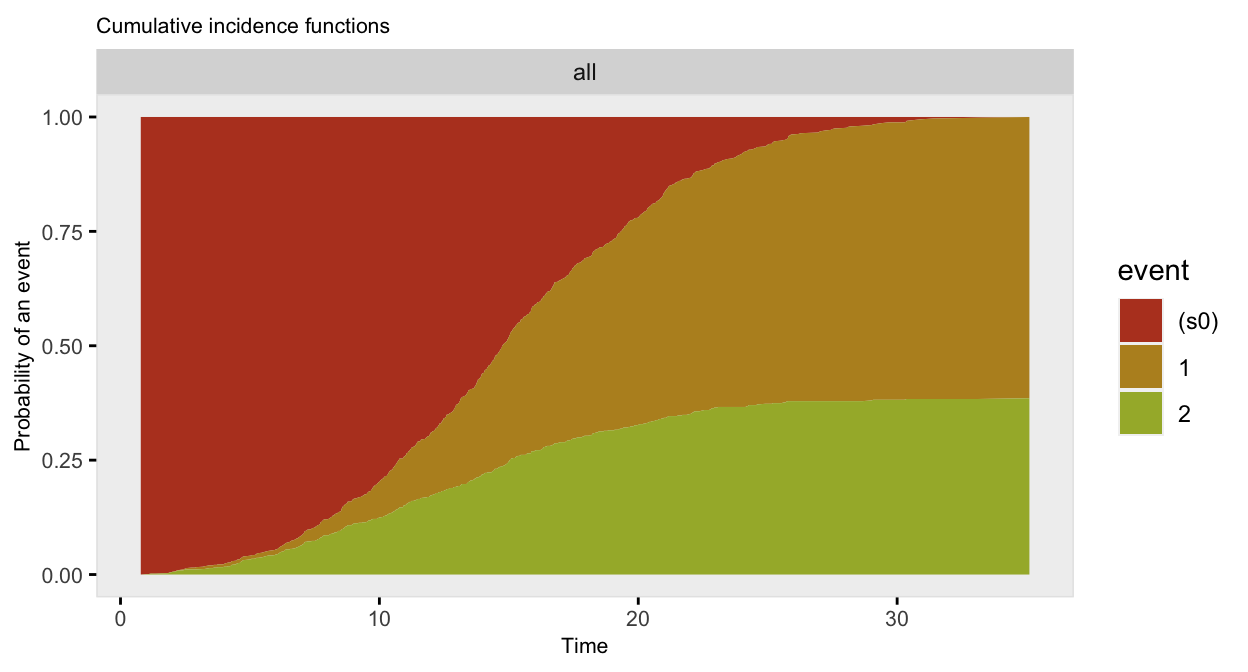
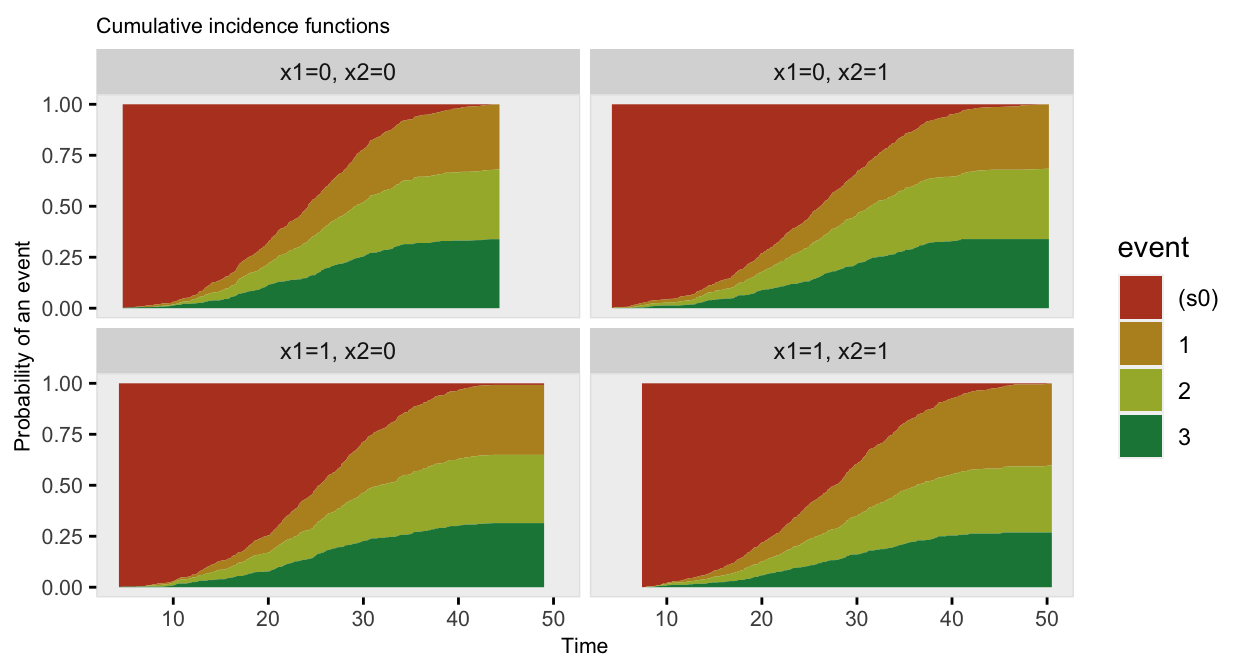
Posting competing risks

diff --git a/content/post/2022-03-15-adding-competing-risks-in-survival-data-generation/index.en.html b/content/post/2022-03-15-adding-competing-risks-in-survival-data-generation/index.en.html
@@ -1,6 +1,6 @@
 ---
 title: Adding competing risks in survival data generation
-author: Package Build
+author:
 date: '2022-03-15'
 slug: []
 categories: []
@@ -10,94 +10,98 @@ tags:
 type: ''
 subtitle: ''
 image: ''
-draft: TRUE
 ---
 
 <script src="{{< blogdown/postref >}}index.en_files/header-attrs/header-attrs.js"></script>
 
 
-<p>I am working on an update of <code>simstudy</code> that will make generating survival/time-to-event data a bit more flexible. There are two biggish enhancements. The first facilitates generation of competing events, and the second allows for the possibility of generating survival data that has time-dependent hazard ratios. This post focuses on the first enhancement, and a follow up will provide examples of the second. (If you want to try this at home, you will need the development version of <code>simstudy</code> that you can install using <strong>devtools::install_github(“kgoldfeld/simstudy”)</strong>.)</p>
+<p>I am working on an update of <code>simstudy</code> that will make generating survival/time-to-event data a bit more flexible. There are two biggish enhancements. The first facilitates generation of competing events, and the second allows for the possibility of generating survival data that has time-dependent hazard ratios. This post focuses on the first enhancement, and a follow up will provide examples of the second. (If you want to try this at home, you will need the development version of <code>simstudy</code>, which you can install using <strong>devtools::install_github(“kgoldfeld/simstudy”)</strong>.)</p>
 <div id="competing-risks" class="section level3">
 <h3>Competing risks</h3>
-<p>Concept of competing risk …</p>
-<p>In the previous example, we actually used the competing risk mechanism in <code>genSurv</code> to generate an observed time variable (which was the earliest of the censoring and event time). This is done by specifying a <em>timeName</em> argument that will represent the observed time value. The event status is indicated in the field set by the <em>eventName</em> argument (which defaults to “event”). If a variable name is indicated in the <em>censorName</em> argument, the censored events automatically have a value of 0. As we saw above, competing risk information can be generated as part of <code>genSurv</code>. However, there is an additional function <code>addCompRisk</code> that will generate the competing risk information using an existing data set. The example here will take that approach.</p>
+<p>In standard survival analysis, we are interested in understanding the distribution of time to a single event, such as time to death or time to symptom-free recovery. However, there may be situations where two there are at least two possible events, and the occurrence of one precludes the occurrence of the other. In this case, we say that the events are competing risks. In the work that motivated this <code>simstudy</code> enhancement, we are trying to model the time to opioid overdose death for people being released from jail, but there are at least two other competing risks, death from other causes and re-incarceration. In addition, there is censoring, which from a data generation point of view (though maybe not from an analytic perspective), can also be considered a competing risk.</p>
+</div>
+<div id="generating-competing-risk-outcomes-under-0.4.0" class="section level3">
+<h3>Generating competing risk outcomes under 0.4.0</h3>
+<p>Previously, it was possible to generate competing risk outcomes, but it had to be done “manually” with additional lines of code or data definitions. It was a bit cumbersome:</p>
 <pre class="r"><code>library(simstudy)
 library(data.table)
 library(survival)</code></pre>
+<p>First, we would generate a data set with <code>genSurv</code>:</p>
 <pre class="r"><code>d1 &lt;- defData(varname = &quot;x1&quot;, formula = .5, dist = &quot;binary&quot;)
 d1 &lt;- defData(d1, &quot;x2&quot;, .5, dist = &quot;binary&quot;)
 
-dS &lt;- defSurv(varname = &quot;event_1&quot;, formula = &quot;-10 - 0.6*x1 + 0.4*x2&quot;, shape = 0.3)
-dS &lt;- defSurv(dS, &quot;event_2&quot;, &quot;-6.5 + 0.3*x1 - 0.5*x2&quot;, shape = 0.5)
-dS &lt;- defSurv(dS, &quot;censor&quot;, &quot;-7&quot;, shape = 0.55)
+dS &lt;- defSurv(varname = &quot;event_1&quot;, formula = &quot;-12 - 0.1*x1 - 0.2*x2&quot;, shape = 0.3)
+dS &lt;- defSurv(dS, &quot;event_2&quot;, &quot;-12 - 0.3*x1 - 0.2*x2&quot;, shape = 0.3)
+dS &lt;- defSurv(dS, &quot;event_3&quot;, &quot;-12 - 0.4*x1 - 0.3*x2&quot;, shape = 0.3)
+dS &lt;- defSurv(dS, &quot;censor&quot;, &quot;-13&quot;, shape = 0.3)
 
-dtSurv &lt;- genData(1001, d1)
-dtSurv &lt;- genSurv(dtSurv, dS)
+set.seed(2140)
 
-dtSurv</code></pre>
-<pre><code>##         id x1 x2 censor event_1 event_2
-##    1:    1  0  0 35.993  21.199  10.472
-##    2:    2  1  1 46.647  20.018  21.070
-##    3:    3  1  1 12.740   9.320  16.787
-##    4:    4  0  0 16.480  26.811  23.481
-##    5:    5  0  0 41.238  19.556  31.368
-##   ---                                  
-##  997:  997  1  1 22.940  13.355  39.096
-##  998:  998  1  0 49.502  16.537   8.642
-##  999:  999  0  1 44.738  12.311  58.131
-## 1000: 1000  1  0 24.854   2.418  11.702
-## 1001: 1001  0  1 51.121  13.760  14.788</code></pre>
-<pre class="r"><code>cdef &lt;- defDataAdd(varname = &quot;time&quot;, 
-  formula = &quot;pmin(censor, event_1, event_2)&quot;, dist = &quot;nonrandom&quot;)
+dtCov &lt;- genData(3001, d1)
+dtSurv &lt;- genSurv(dtCov, dS)
+
+head(dtSurv)</code></pre>
+<pre><code>##    id x1 x2 censor event_1 event_2 event_3
+## 1:  1  0  1 56.809  40.321  35.050  48.356
+## 2:  2  0  0 62.278  24.865  23.121  19.198
+## 3:  3  1  0 25.650  27.898  24.716  49.633
+## 4:  4  1  1 51.486  35.065  44.731  40.086
+## 5:  5  1  0 54.522  37.042  49.701  34.751
+## 6:  6  1  0 42.749  41.419  34.136  43.811</code></pre>
+<p>And then we would add the observed time variable with a new data definition and call to <code>addColumns</code>:</p>
+<pre class="r"><code>f &lt;- &quot;(time==censor)*0 + (time==event_1)*1 + (time==event_2)*2 + (time==event_3)*3&quot;
+
+cdef &lt;- defDataAdd(varname = &quot;time&quot;, 
+  formula = &quot;pmin(censor, event_1, event_2, event_3)&quot;, dist = &quot;nonrandom&quot;)
 cdef &lt;- defDataAdd(cdef, varname = &quot;event&quot;, 
-  formula = &quot;(time==censor)*0 + (time==event_1)*1 + (time==event_2)*2&quot;, 
+  formula = f, 
   dist = &quot;nonrandom&quot;)
 
-dtSurv_old &lt;- addColumns(cdef, dtSurv)
-dtSurv_old</code></pre>
-<pre><code>##         id x1 x2 censor event_1 event_2   time event
-##    1:    1  0  0 35.993  21.199  10.472 10.472     2
-##    2:    2  1  1 46.647  20.018  21.070 20.018     1
-##    3:    3  1  1 12.740   9.320  16.787  9.320     1
-##    4:    4  0  0 16.480  26.811  23.481 16.480     0
-##    5:    5  0  0 41.238  19.556  31.368 19.556     1
-##   ---                                               
-##  997:  997  1  1 22.940  13.355  39.096 13.355     1
-##  998:  998  1  0 49.502  16.537   8.642  8.642     2
-##  999:  999  0  1 44.738  12.311  58.131 12.311     1
-## 1000: 1000  1  0 24.854   2.418  11.702  2.418     1
-## 1001: 1001  0  1 51.121  13.760  14.788 13.760     1</code></pre>
-<pre class="r"><code>dtSurv &lt;- addCompRisk(dtSurv, events = c(&quot;event_1&quot;, &quot;event_2&quot;, &quot;censor&quot;), 
-            timeName = &quot;time&quot;, censorName = &quot;censor&quot;)
-dtSurv</code></pre>
-<pre><code>##         id x1 x2   time event    type
-##    1:    1  0  0 10.472     2 event_2
-##    2:    2  1  1 20.018     1 event_1
-##    3:    3  1  1  9.320     1 event_1
-##    4:    4  0  0 16.480     0  censor
-##    5:    5  0  0 19.556     1 event_1
-##   ---                                
-##  997:  997  1  1 13.355     1 event_1
-##  998:  998  1  0  8.642     2 event_2
-##  999:  999  0  1 12.311     1 event_1
-## 1000: 1000  1  0  2.418     1 event_1
-## 1001: 1001  0  1 13.760     1 event_1</code></pre>
+dtSurv_final &lt;- addColumns(cdef, dtSurv)
+head(dtSurv_final)</code></pre>
+<pre><code>##    id x1 x2 censor event_1 event_2 event_3   time event
+## 1:  1  0  1 56.809  40.321  35.050  48.356 35.050     2
+## 2:  2  0  0 62.278  24.865  23.121  19.198 19.198     3
+## 3:  3  1  0 25.650  27.898  24.716  49.633 24.716     2
+## 4:  4  1  1 51.486  35.065  44.731  40.086 35.065     1
+## 5:  5  1  0 54.522  37.042  49.701  34.751 34.751     3
+## 6:  6  1  0 42.749  41.419  34.136  43.811 34.136     2</code></pre>
+</div>
+<div id="streamlined-approach" class="section level3">
+<h3>Streamlined approach</h3>
+<p>The function <code>addCompRisk</code> can now generate an observed time variable (which will be the first of the four event times). This is done by specifying a <em>timeName</em> argument that will represent the observed time value. The event status is indicated in the field set by the <em>eventName</em> argument (which defaults to “event”). And, if a variable name is indicated in the <em>censorName</em> argument, the censored events automatically have a value of 0.</p>
+<pre class="r"><code>dtSurv_final &lt;- addCompRisk(dtSurv, 
+  events = c(&quot;event_1&quot;, &quot;event_2&quot;, &quot;event_3&quot;, &quot;censor&quot;), 
+  timeName = &quot;time&quot;, censorName = &quot;censor&quot;)
+
+head(dtSurv_final)</code></pre>
+<pre><code>##    id x1 x2   time event    type
+## 1:  1  0  1 35.050     2 event_2
+## 2:  2  0  0 19.198     3 event_3
+## 3:  3  1  0 24.716     2 event_2
+## 4:  4  1  1 35.065     1 event_1
+## 5:  5  1  0 34.751     3 event_3
+## 6:  6  1  0 34.136     2 event_2</code></pre>
 <p>The competing risk data can be plotted using the cumulative incidence functions (rather than the survival curves):</p>
 <p><img src="{{< blogdown/postref >}}index.en_files/figure-html/unnamed-chunk-6-1.png" width="624" /></p>
-<p>The data generation can all be done in two (instead of three) steps:</p>
-<pre class="r"><code>dtSurv &lt;- genData(101, d1)
-dtSurv &lt;- genSurv(dtSurv, dS, timeName = &quot;time&quot;, censorName = &quot;censor&quot;)
-dtSurv</code></pre>
-<pre><code>##       id x1 x2   time event    type
-##   1:   1  0  0 11.024     1 event_1
-##   2:   2  0  0 15.982     1 event_1
-##   3:   3  0  1 11.823     1 event_1
-##   4:   4  0  1 11.840     1 event_1
-##   5:   5  1  1 12.056     2 event_2
-##  ---                               
-##  97:  97  1  0  3.369     2 event_2
-##  98:  98  1  0 20.504     1 event_1
-##  99:  99  0  0 11.498     1 event_1
-## 100: 100  1  0 19.378     1 event_1
-## 101: 101  0  1  8.397     0  censor</code></pre>
+<p>The data generation can be streamlined even further, as there is no need to call <code>addCompRisk</code> at all. The same arguments can be provided directly in the call to <code>genSurv</code>, so everything is done at once. And there is no need to explicitly name the events, as they are extracted from the survival distribution definitions:</p>
+<pre class="r"><code>dtSurv_final &lt;- genSurv(dtCov, dS, timeName = &quot;time&quot;, censorName = &quot;censor&quot;)
+head(dtSurv_final)</code></pre>
+<pre><code>##    id x1 x2   time event    type
+## 1:  1  0  1 30.229     3 event_3
+## 2:  2  0  0 28.473     1 event_1
+## 3:  3  1  0 11.654     0  censor
+## 4:  4  1  1 28.248     1 event_1
+## 5:  5  1  0 28.524     3 event_3
+## 6:  6  1  0 18.255     0  censor</code></pre>
+<p>If you don’t want to generate competing risk data, and you can set <em>timeName</em> to <code>NULL</code>, or just not specify it:</p>
+<pre class="r"><code>dtSurv_final &lt;- genSurv(dtCov, dS)
+head(dtSurv_final)</code></pre>
+<pre><code>##    id x1 x2 censor event_1 event_2 event_3
+## 1:  1  0  1 40.276  16.858  42.624  34.609
+## 2:  2  0  0 69.382  24.191  37.574  10.783
+## 3:  3  1  0 26.637  48.476  54.240  60.507
+## 4:  4  1  1 36.697  46.690  36.443  43.195
+## 5:  5  1  0 64.498  36.755  39.666  10.935
+## 6:  6  1  0 69.150  38.706  44.930  17.668</code></pre>
 </div>

diff --git a/content/post/2022-03-22-simulating-non-proportional-hazards/index.en.html b/content/post/2022-03-22-simulating-non-proportional-hazards/index.en.html
@@ -16,10 +16,10 @@ draft: TRUE
 <script src="{{< blogdown/postref >}}index.en_files/header-attrs/header-attrs.js"></script>
 
 
-<p>I am working on an update of <code>simstudy</code> that will make generating survival/time-to-event data a bit more flexible. There are two biggish enhancements. The first allows for the possibility of generating survival data that has time-dependent hazard ratios, and the second facilitates generation of competing events. This post focuses on the first enhancement, and a follow up will provide examples of the second. (If you want to try this at home, you will need the development version of <code>simstudy</code> that you can install using <strong>devtools::install_github(“kgoldfeld/simstudy”)</strong>.)</p>
+<p>As I mentioned last <a href="">time</a>, I am working on an update of <code>simstudy</code> that will make generating survival/time-to-event data a bit more flexible. I previously talked about the functionality related to <a href="">competing risks</a>, and this time I’ll describe generating survival data that has time-dependent hazard ratios. (As I mentioned last time, if you want to try this at home, you will need the development version of <code>simstudy</code> that you can install using <strong>devtools::install_github(“kgoldfeld/simstudy”)</strong>.)</p>
 <div id="constantproportional-hazard-ratio" class="section level3">
 <h3>Constant/proportional hazard ratio</h3>
-<p>In the current version of <code>simstudy 0.4.0</code> on <code>CRAN</code>, the data generation process for survival/time-to-event outcomes can include covariates that effect the hazard rate (which is the risk/probability of having an event conditional on not having had experienced that event earlier). The ratio of hazards comparing different levels of a covariate are constant across all time points. For example, if we have a single binary covariate <span class="math inline">\(x\)</span>, the hazard <span class="math inline">\(\lambda(t)\)</span> at time <span class="math inline">\(t\)</span> is
+<p>In the current version of <code>simstudy 0.4.0</code> on <code>CRAN</code>, the data generation process for survival/time-to-event outcomes can include covariates that effect the hazard rate (which is the risk/probability of having an event conditional on not having had experienced that event earlier). The ratio of hazards comparing different levels of a covariate are <em>constant</em> across all time points. For example, if we have a single binary covariate <span class="math inline">\(x\)</span>, the hazard <span class="math inline">\(\lambda(t)\)</span> at time <span class="math inline">\(t\)</span> is
 <span class="math display">\[\lambda(t|x) = \lambda_0(t) e ^ {\beta x}\]</span>
 where <span class="math inline">\(\lambda_0(t)\)</span> is a baseline hazard when <span class="math inline">\(x=0\)</span>. The ratio of the hazards for <span class="math inline">\(x=1\)</span> compared to <span class="math inline">\(x=0\)</span> is
 <span class="math display">\[\frac{\lambda_0(t) e ^ {\beta}}{\lambda_0(t)} = e ^ \beta,\]</span>
